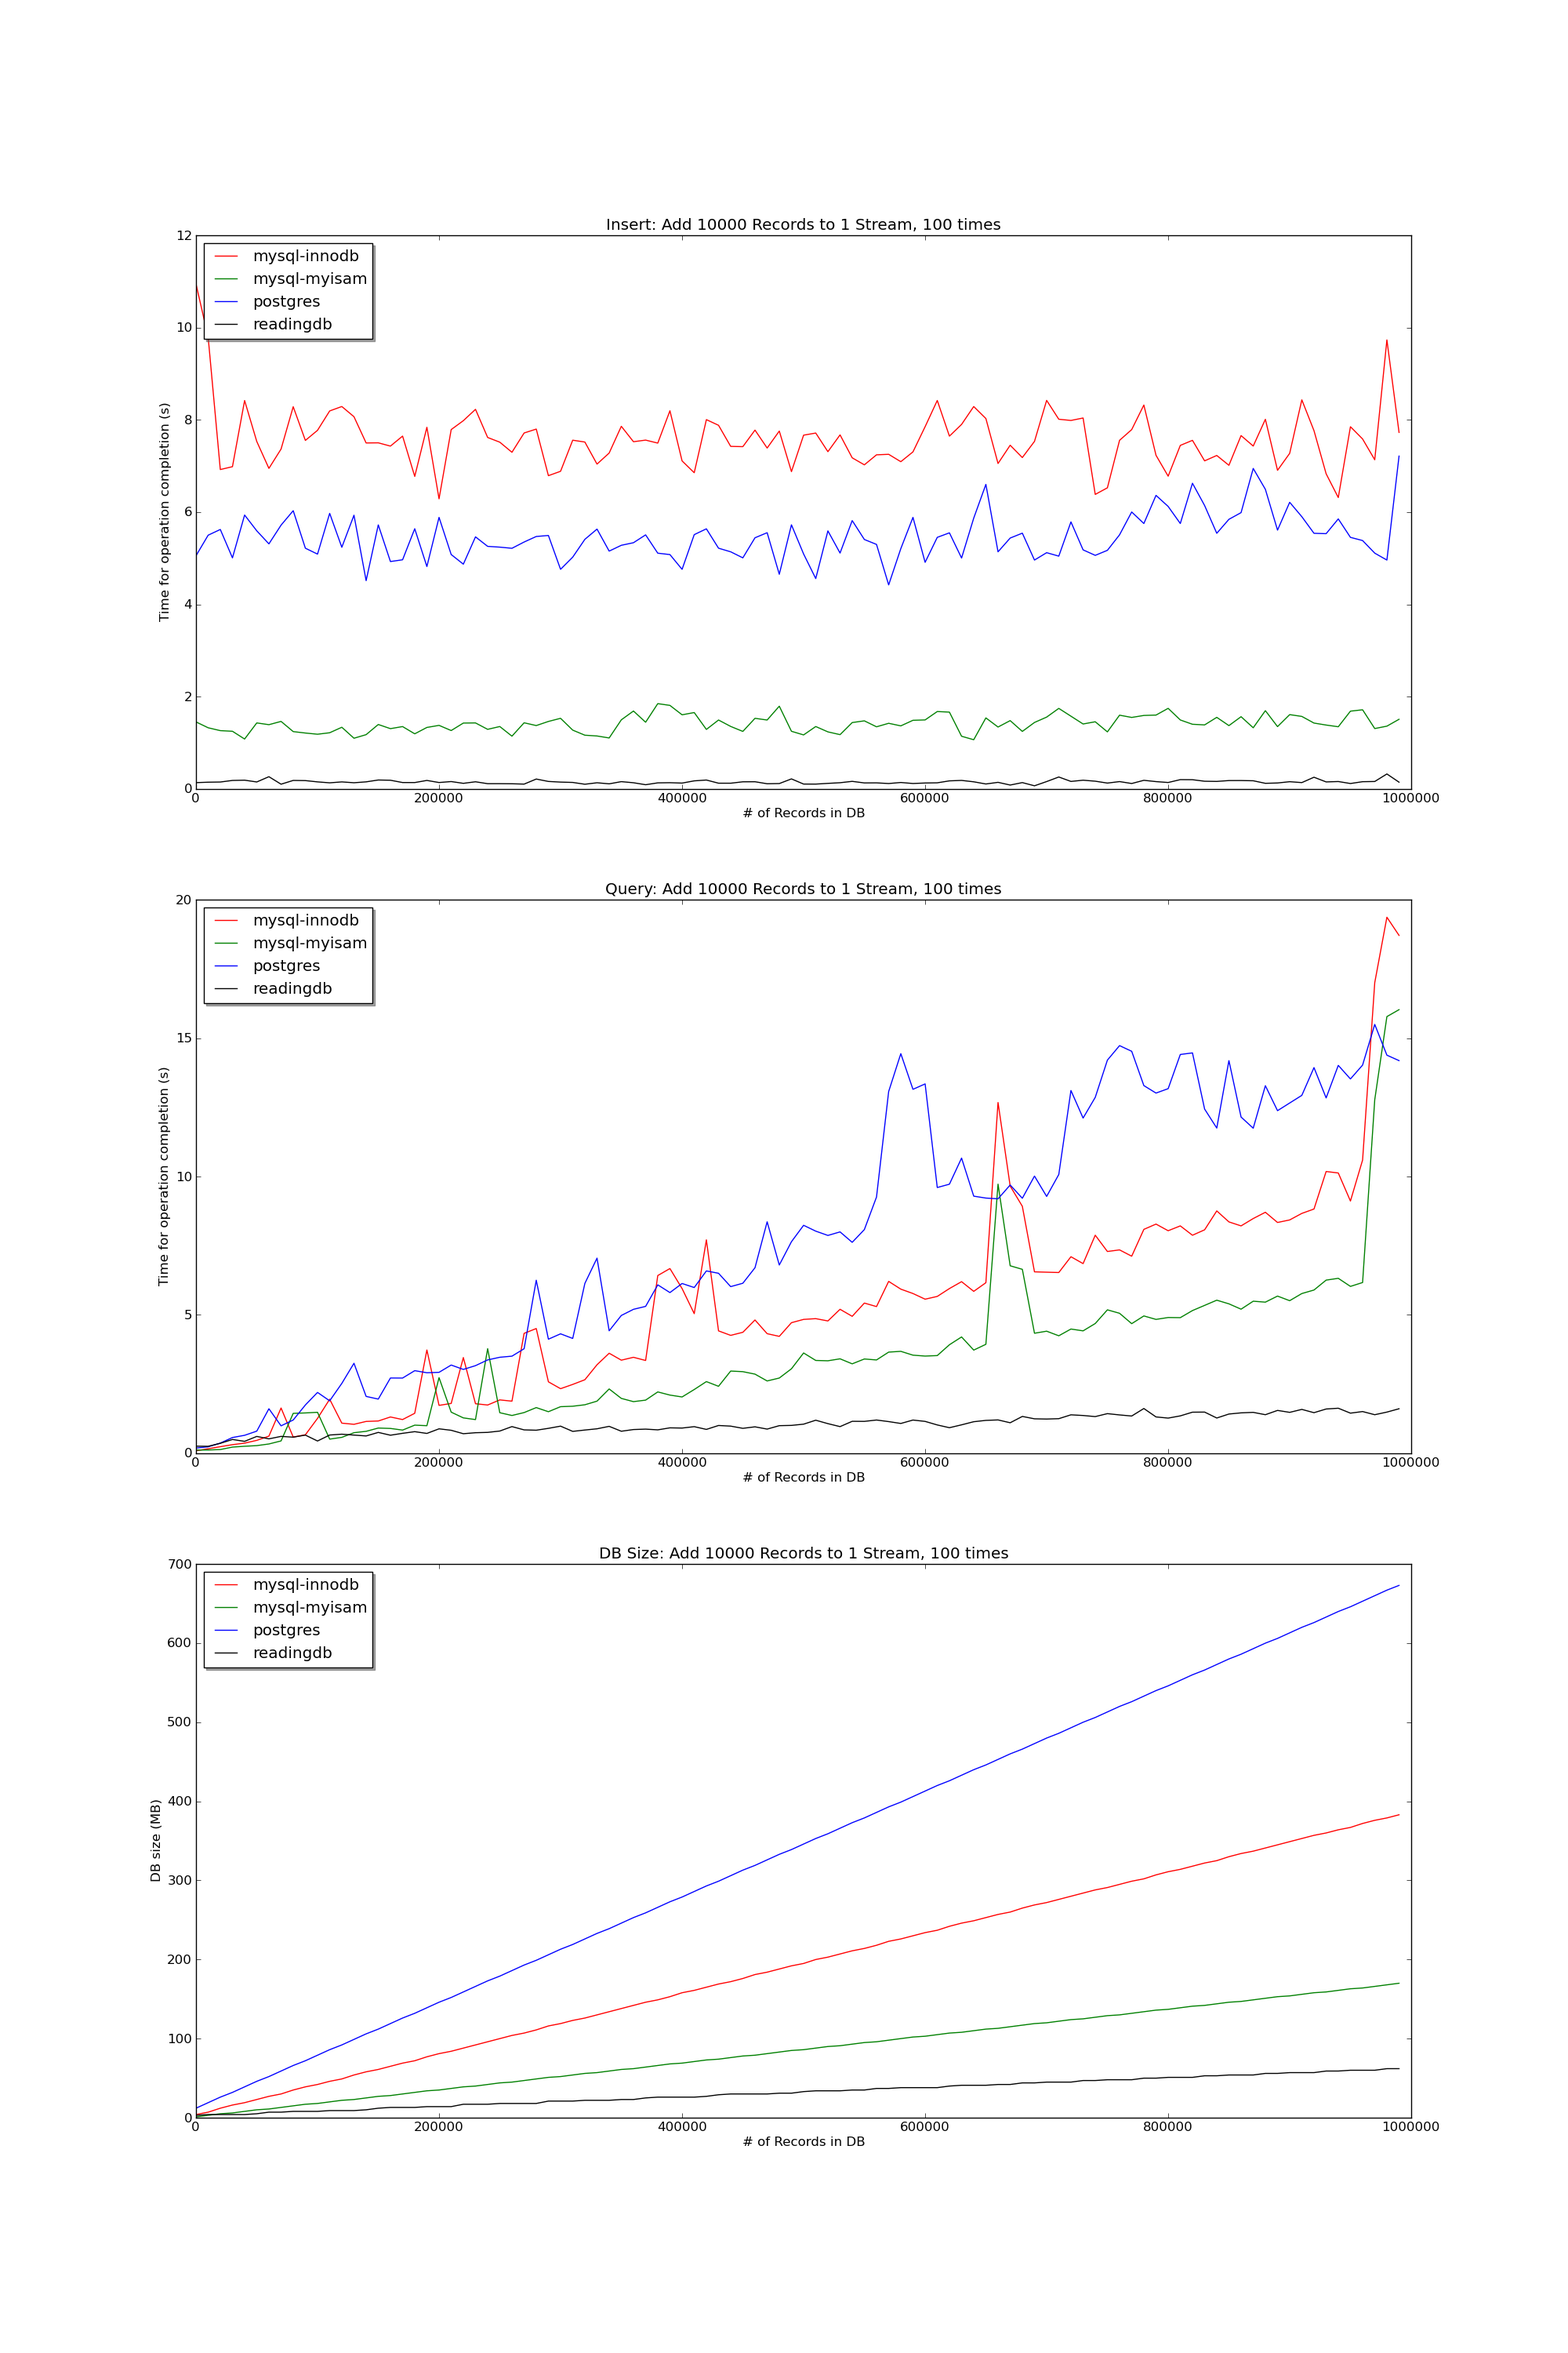
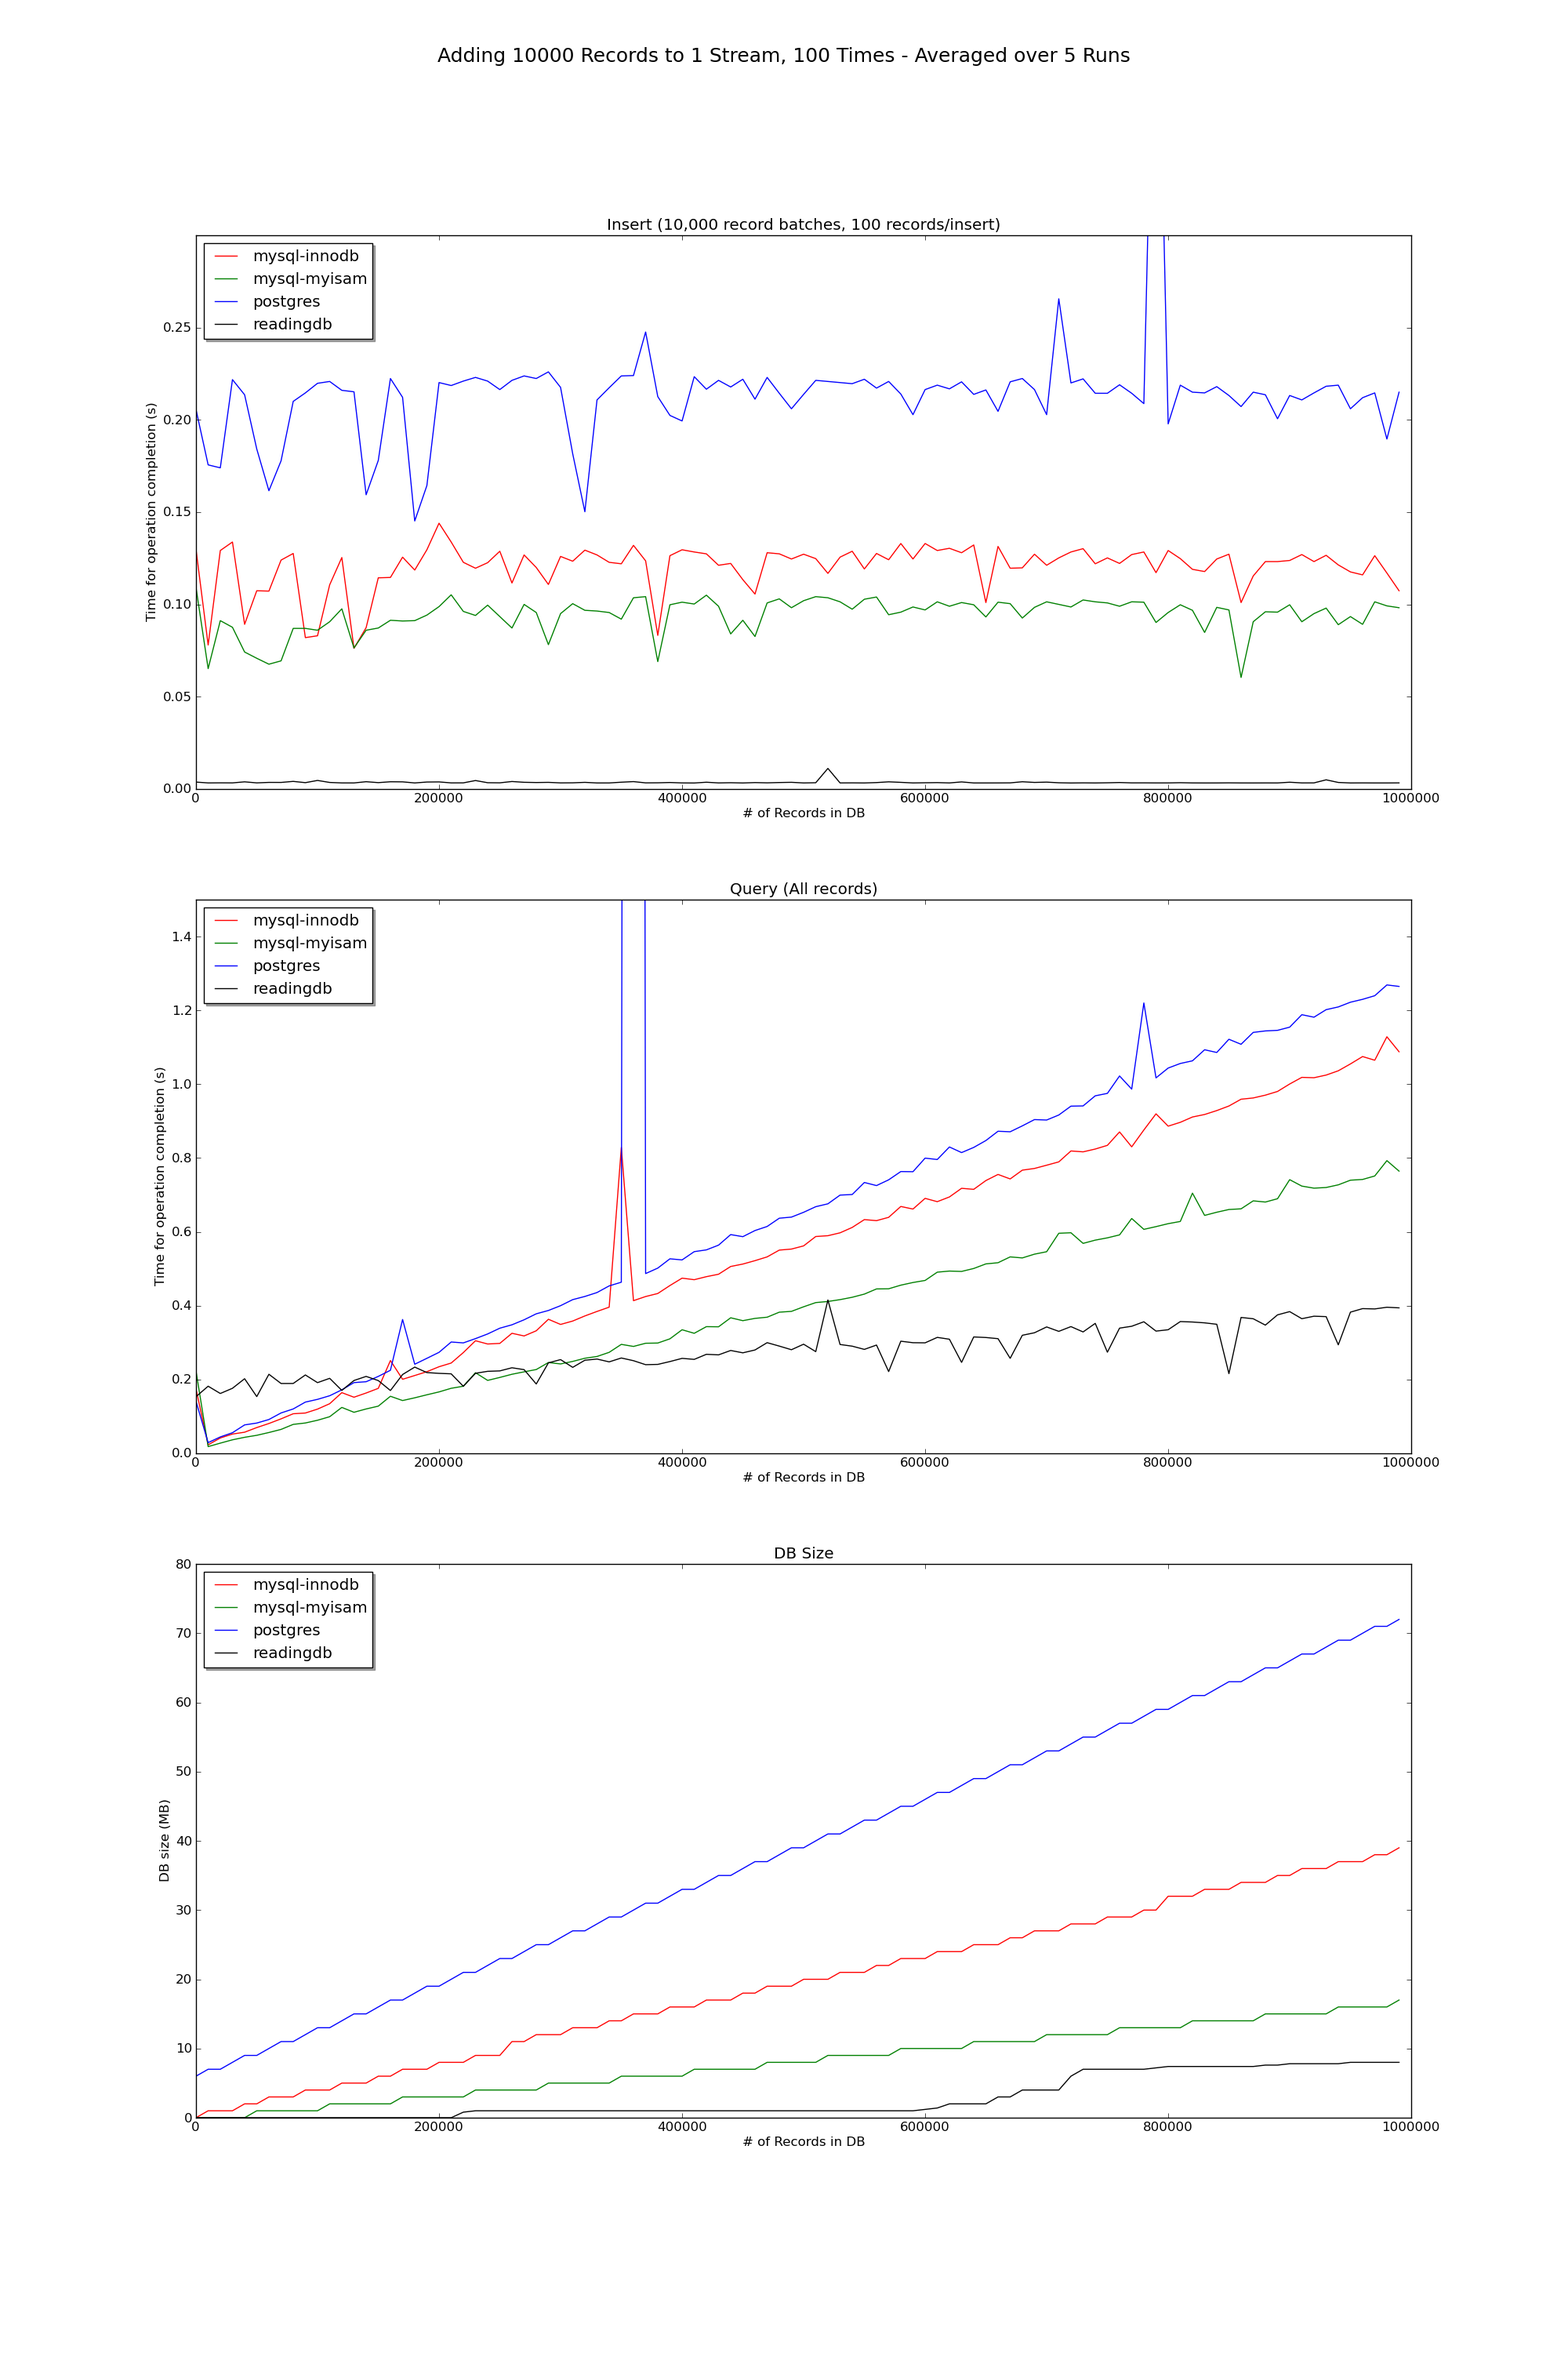
pull up averager

diff --git a/logparse/averager.py b/logparse/averager.py
@@ -44,6 +44,7 @@ def average_from_files(filedatalst):
     for lineset in filedata:
         parsed.append(parsedata(lineset))
         numdiv += 1
+        print(numdiv)
    
     totalarr = parsed[0]
     for x in range(1, len(parsed)):
@@ -73,9 +74,14 @@ def parsedata(lines):
     while "finished" not in lines[0]:
         insert = lines.pop(0).split(": ")[2]
         query = lines.pop(0).split(": ")[2]
-        size = lines.pop(0).split("now ")[1].replace(" bytes.", "")
+        try:
+            line = lines.pop(0)
+            size = line.split("now ")[1].replace(" bytes.", "")
+        except:
+            print("exception parsing file")
+            sys.exit(0)
         points.append([counter, eval(insert), eval(query), eval(size)])
-        counter += 100000 #number of records before each round
+        counter += 10000 #number of records before each round
 
     graphthis = []
     for x in points:
@@ -106,22 +112,22 @@ for db in dbfolders:
 print(db_arrays)
 
 fig = plt.figure(figsize=(20, 30), dpi=300)
-
+fig.suptitle('Adding 10000 Records to 1 Stream, 100 Times - Averaged over 5 Runs', fontsize=18)
 ax1 = fig.add_subplot(311)
 ax2 = fig.add_subplot(312)
 ax3 = fig.add_subplot(313)
 
-ax1.set_title('Insert: Add 100000 Records to 1 Stream, 100 times')
+ax1.set_title('Insert (10,000 record batches, 100 records/insert)')
 ax1.set_xlabel('# of Records in DB')
 ax1.set_ylabel('Time for operation completion (s)')
-ax1.set_ylim(bottom = 0, top = 10)
+ax1.set_ylim(bottom = 0, top = 0.3)
 
-ax2.set_title('Query: Add 100000 Records to 1 Stream, 100 times')
+ax2.set_title('Query (All records)')
 ax2.set_xlabel('# of Records in DB')
 ax2.set_ylabel('Time for operation completion (s)')
-ax2.set_ylim(bottom = 0, top = 20)
+ax2.set_ylim(bottom = 0, top = 1.5)
 
-ax3.set_title('DB Size: Add 100000 Records to 1 Stream, 100 times')
+ax3.set_title('DB Size')
 ax3.set_xlabel('# of Records in DB')
 ax3.set_ylabel('DB size (MB)')
 
